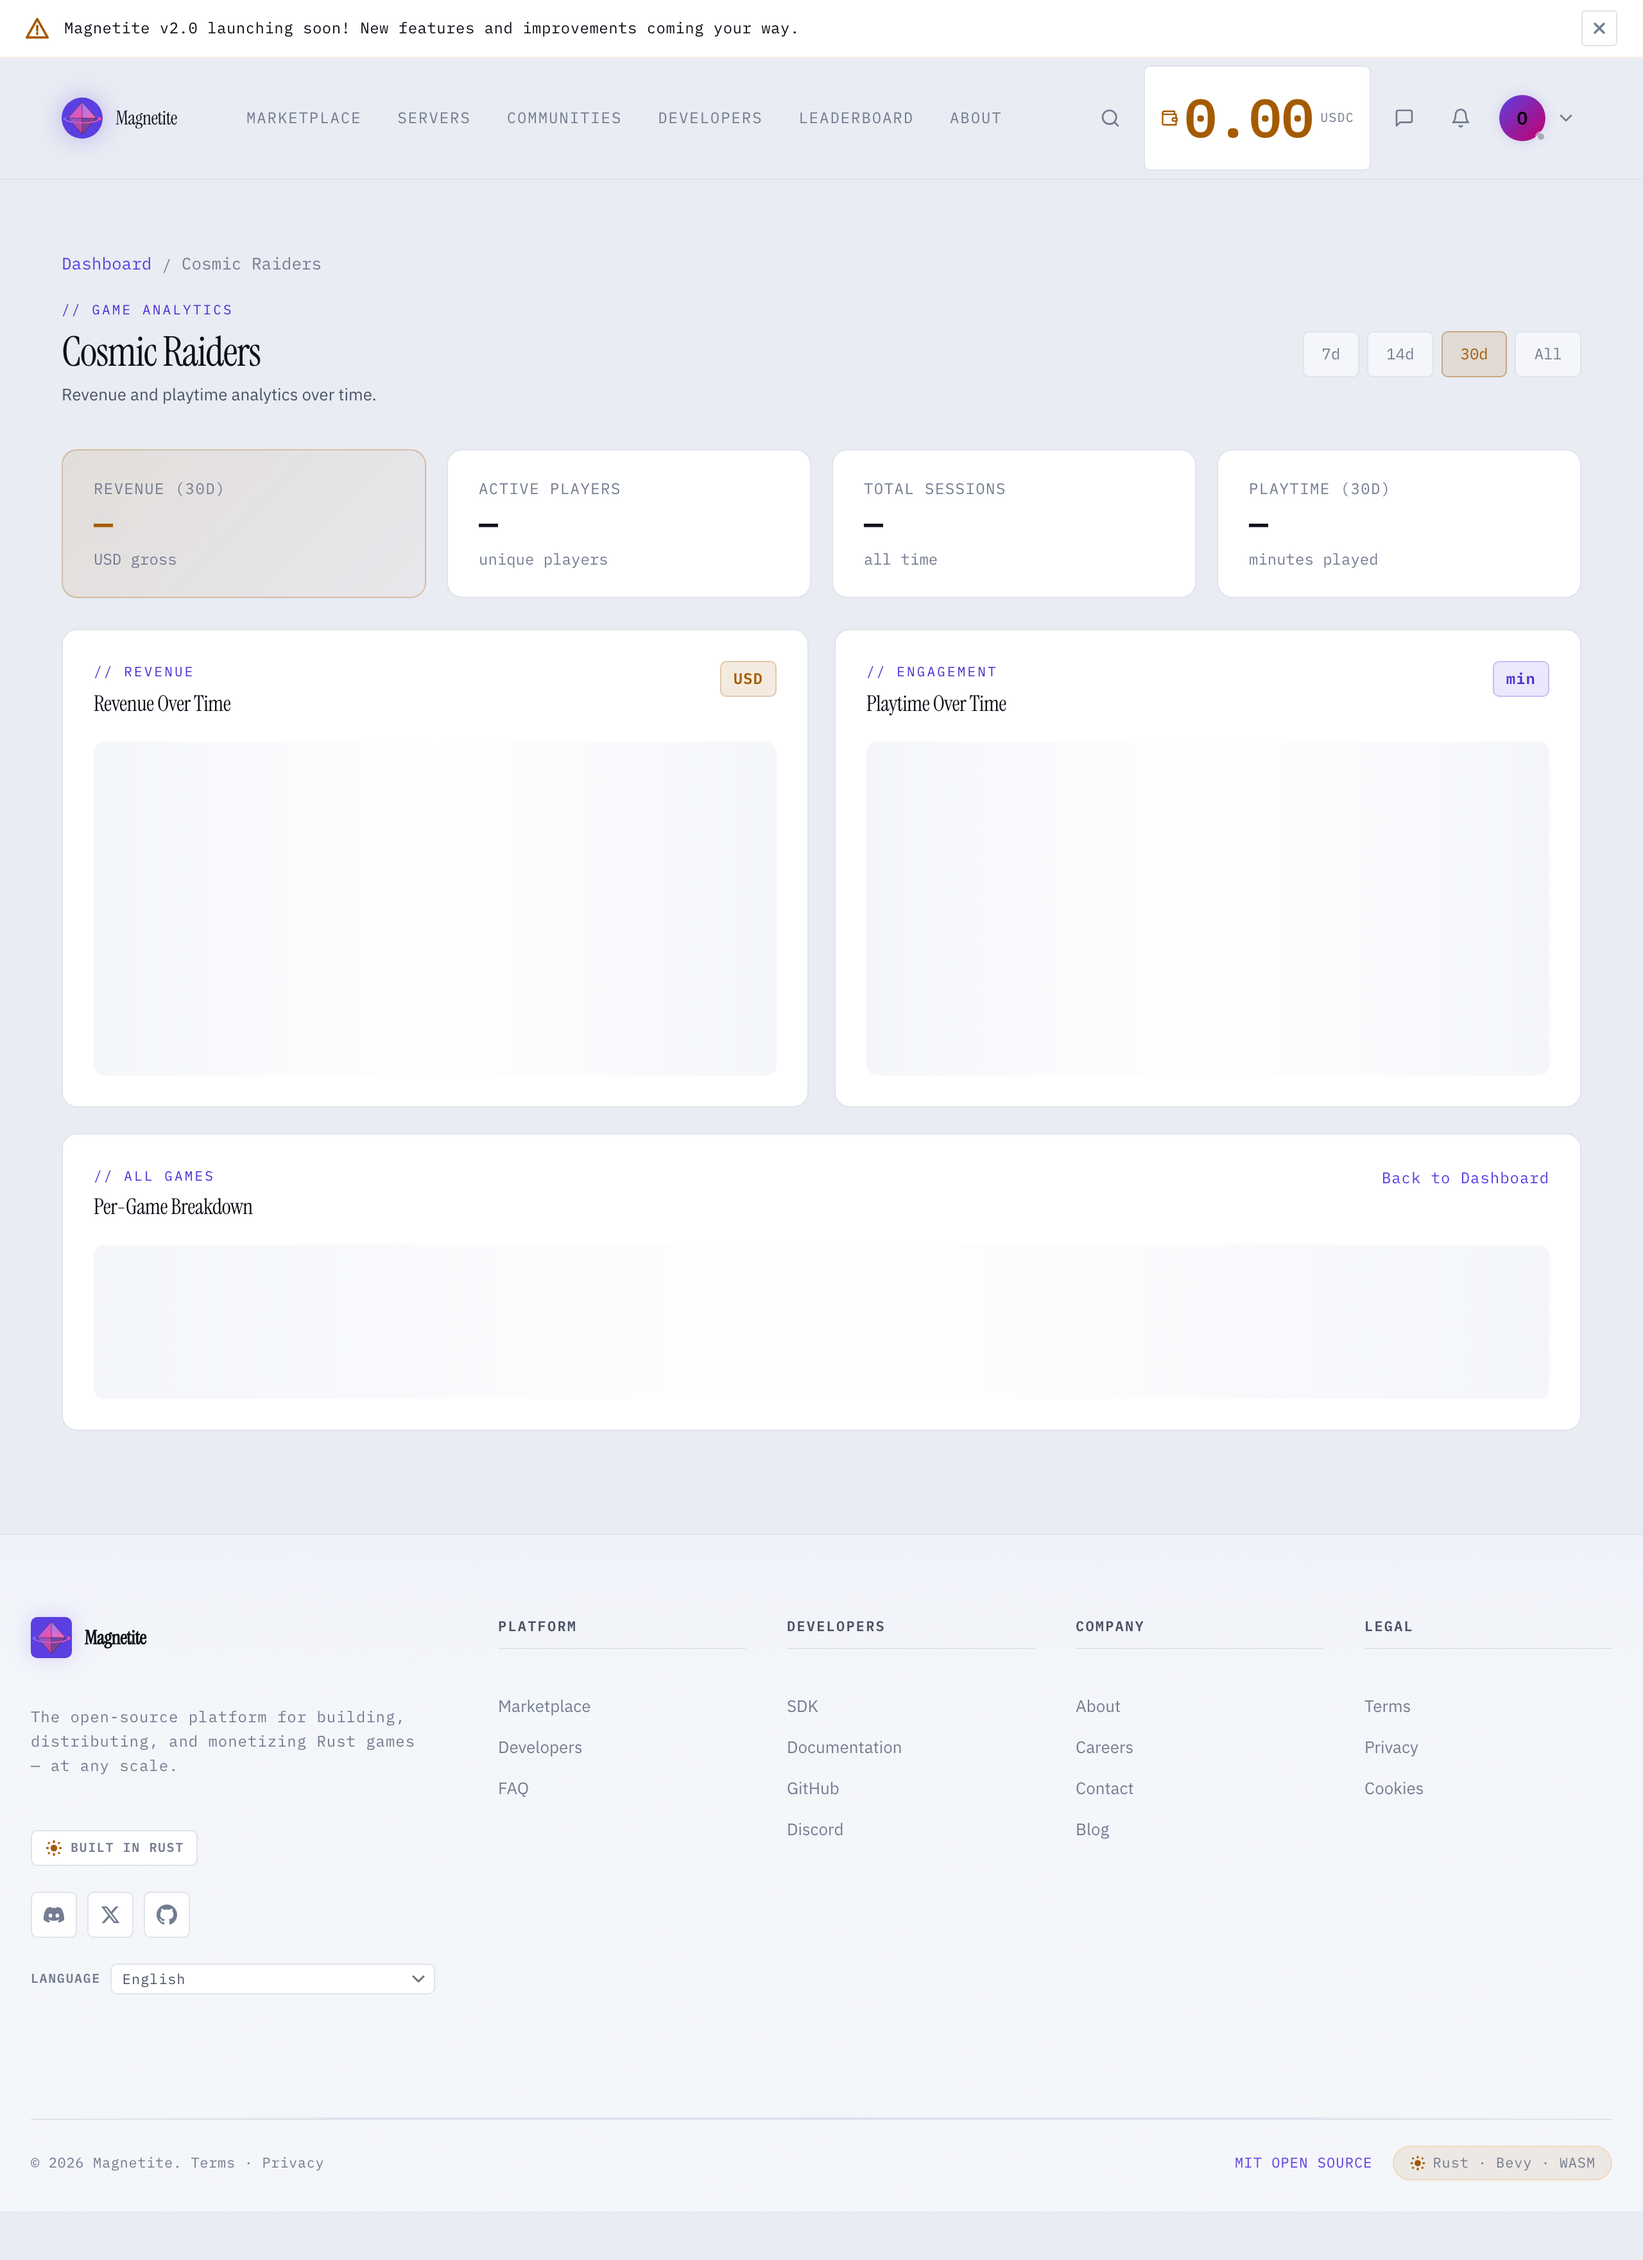
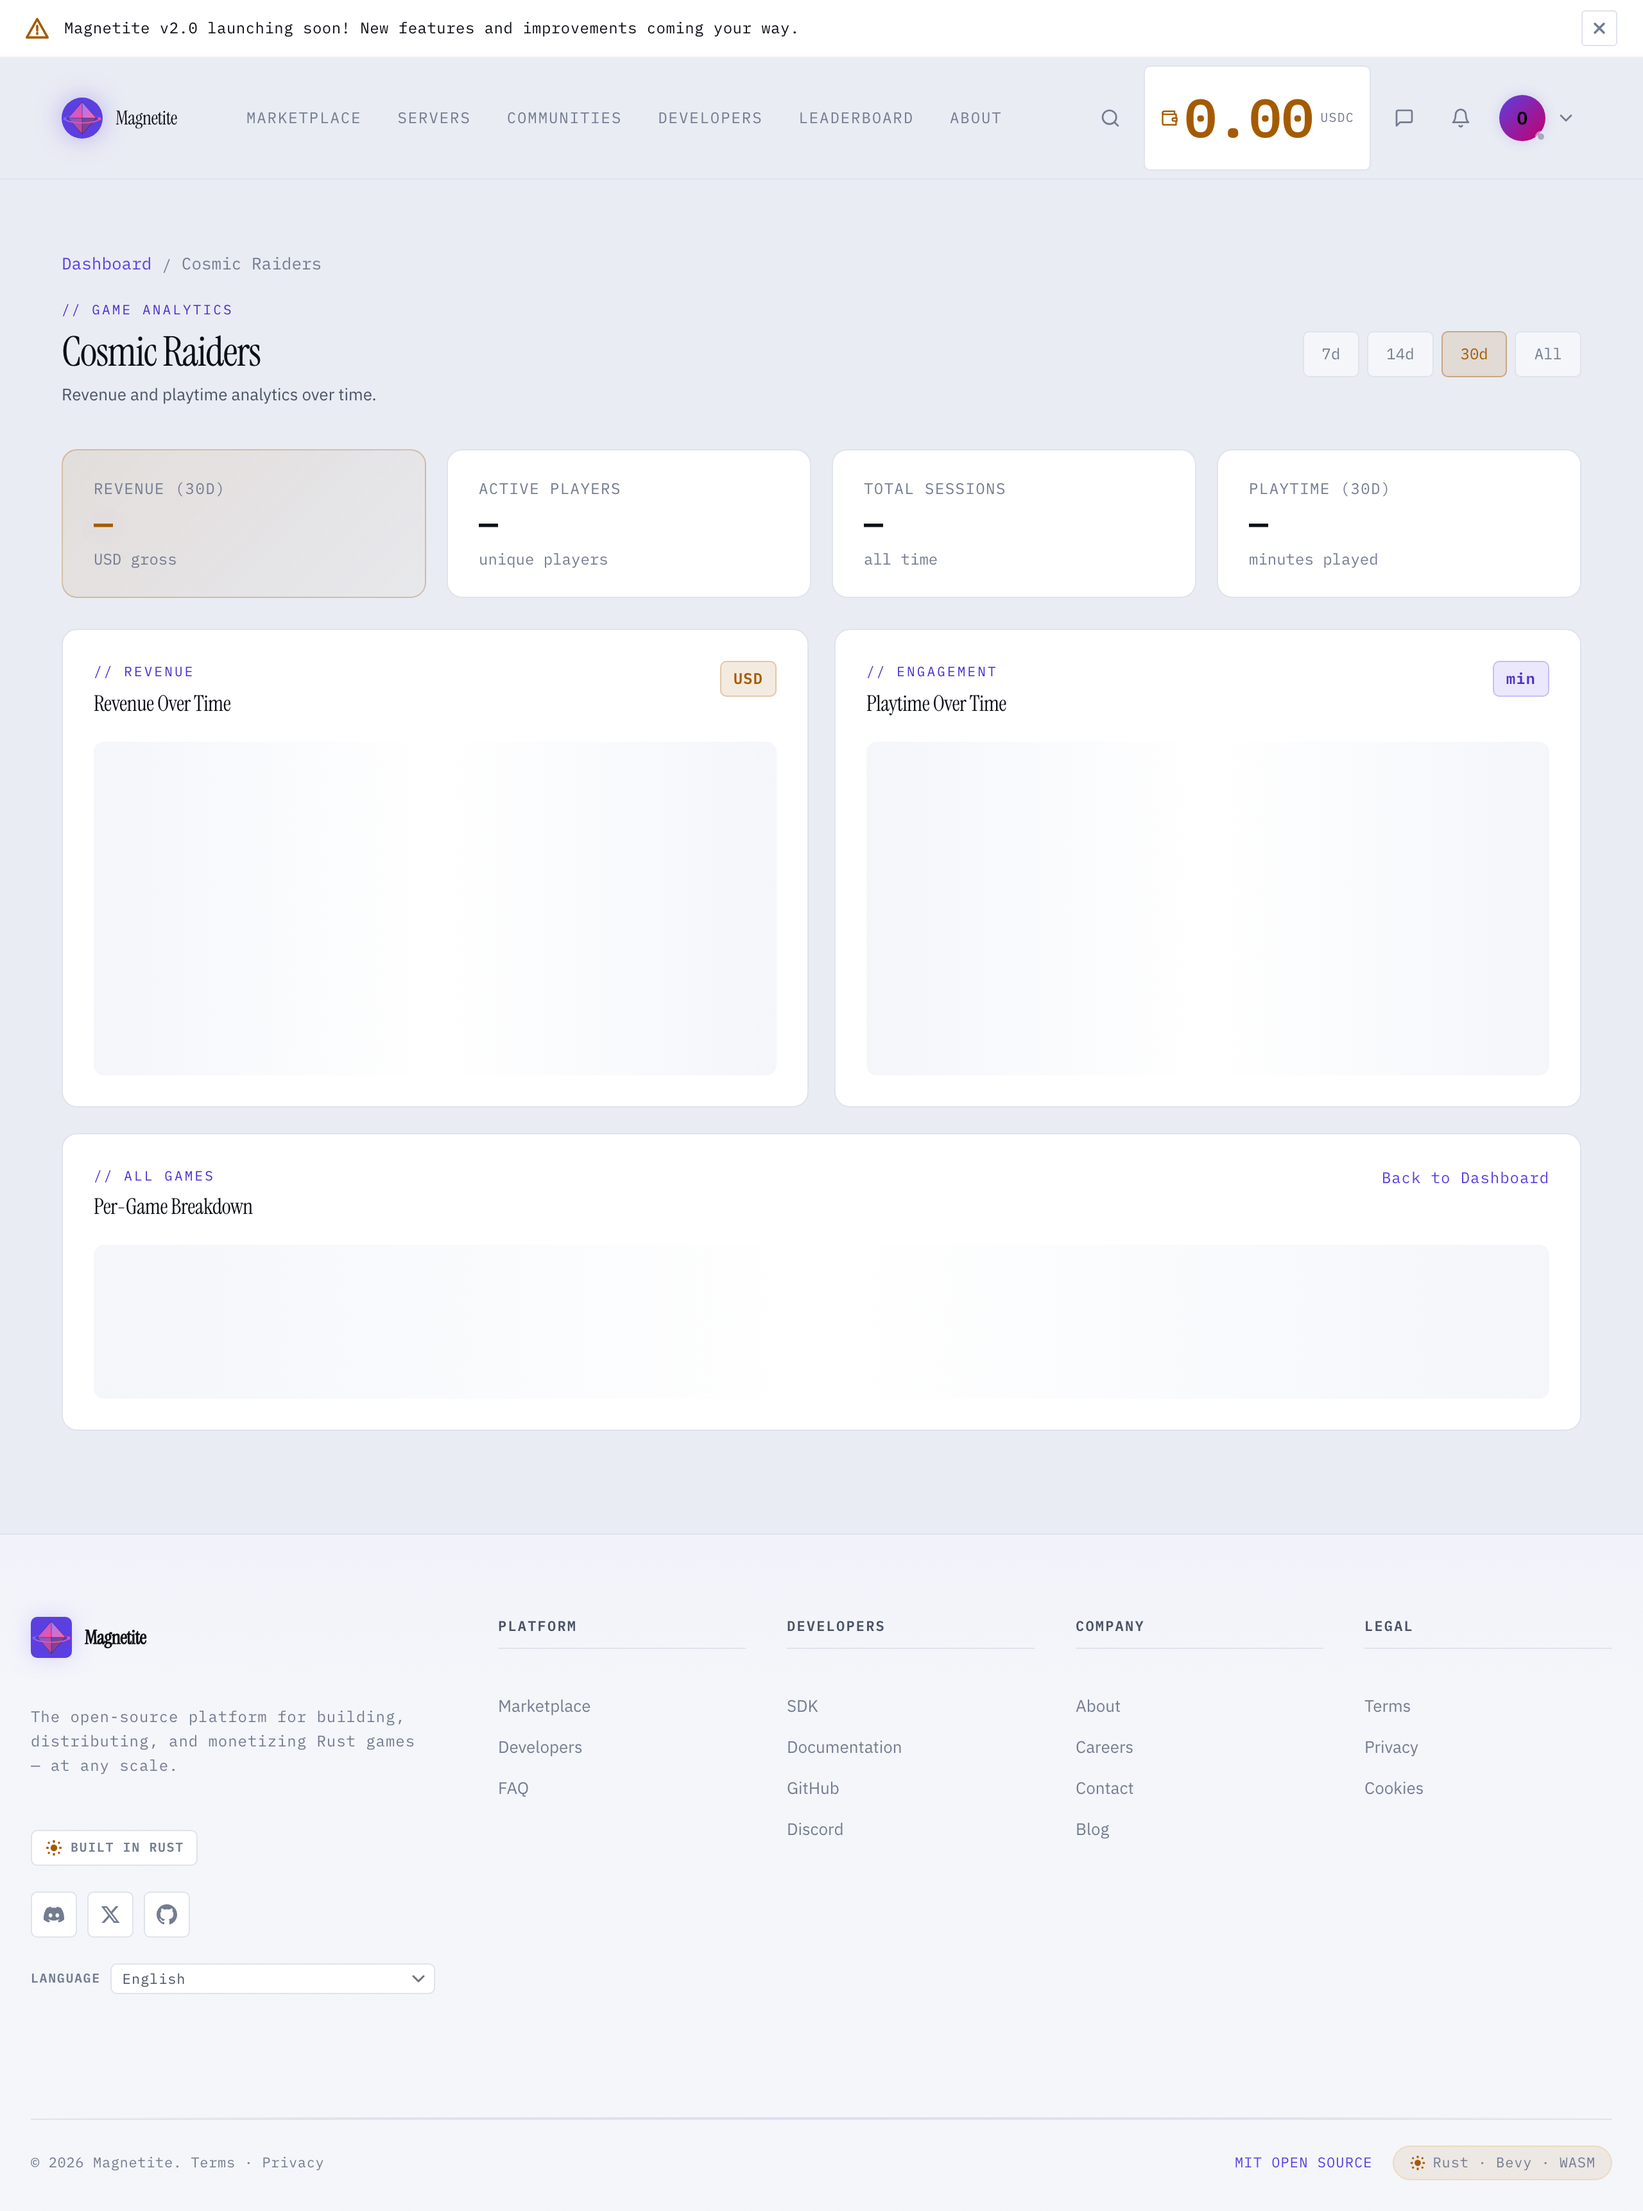
site: fix sub-12px type on landing + docs, refresh app screenshots
12 declarations in site/index.html and 1 in site/docs.html sat below
the 12px floor: mono kicker labels (.m-xs/.m-sm/.m-md), legend swatch
labels (.lg b), the re-sim status/foot text, the status ledger table
header, live/LAN/spec status pills (.st, .st.lan::after), seam chips,
screenshot-frame captions and terminal-bar labels, plus the docs
sidebar section label — all were 10.5-11.5px. Bumped each to
12-12.5px, keeping existing letter-spacing/case treatment. Verified
zero px sizes remain below 12 in either file, and re-checked the .88em
inline <code> spans against their real ancestor sizes (14-17.5px, so
still >=12px effective).

Verified no horizontal overflow at 390px viewport width, light or
dark, across the landing page and all 11 docs sections (throwaway
Playwright check, not a new permanent harness).

Re-ran npm run screenshots:app after the brand-logo swap (previous
commit) — it regenerates app screenshots and gates on overflow at
390/768/1280px; 84/84 measurements clean, 0 overflow. Only 4 of the
existing captures actually changed pixels (home/marketplace/
game-analytics, where the new logo mark is visible), so only those
are included here.

Agent-generated, machine-verified, NOT human-reviewed.

diff --git a/site/index.html b/site/index.html
@@ -168,9 +168,9 @@
   @media (max-width: 560px) { .wrap { padding: 0 18px; } }
 
   /* Mono tracking ladder — the smaller the label, the wider the tracking. */
-  .m-xs { font-family: var(--mono); font-size: 10.5px; letter-spacing: .18em; text-transform: uppercase; }
-  .m-sm { font-family: var(--mono); font-size: 10.5px; letter-spacing: .15em; text-transform: uppercase; }
-  .m-md { font-family: var(--mono); font-size: 11.5px; letter-spacing: .11em; text-transform: uppercase; }
+  .m-xs { font-family: var(--mono); font-size: 12px; letter-spacing: .18em; text-transform: uppercase; }
+  .m-sm { font-family: var(--mono); font-size: 12px; letter-spacing: .15em; text-transform: uppercase; }
+  .m-md { font-family: var(--mono); font-size: 12.5px; letter-spacing: .11em; text-transform: uppercase; }
 
   .link { color: var(--field-text); font-weight: 500; border-bottom: 1px solid var(--field-line); }
   .link:hover { border-bottom-color: var(--field); }
@@ -295,7 +295,7 @@
   @media (max-width: 860px) { .lg:nth-child(2n) { border-right: 0; } }
   @media (max-width: 460px) { .lg { border-right: 0; } }
   .lg .swatch { width: 26px; height: 3px; border-radius: 2px; background: var(--c); margin-bottom: 11px; }
-  .lg b { display: block; font-family: var(--mono); font-size: 11px; font-weight: 600; letter-spacing: .1em; text-transform: uppercase; color: var(--ct); }
+  .lg b { display: block; font-family: var(--mono); font-size: 12px; font-weight: 600; letter-spacing: .1em; text-transform: uppercase; color: var(--ct); }
   .lg span { display: block; color: var(--ink-2); font-size: 13px; line-height: 1.5; margin-top: 6px; }
   .lg.f { --c: var(--field); --ct: var(--field-text); }
   .lg.b { --c: var(--boundary); --ct: var(--boundary-text); }
@@ -320,7 +320,7 @@
   .rrow.mismatch { background: var(--boundary-tint); }
   .rrow.mismatch .h { color: var(--boundary-text); font-weight: 600; }
   .resim-foot { padding: 13px 16px; background: var(--sunk); border-top: 1px solid var(--line); color: var(--ink-2); font-size: 13px; }
-  .resim-foot b { color: var(--boundary-text); font-family: var(--mono); font-size: 11px; letter-spacing: .1em; text-transform: uppercase; }
+  .resim-foot b { color: var(--boundary-text); font-family: var(--mono); font-size: 12px; letter-spacing: .1em; text-transform: uppercase; }
 
   .two { display: grid; grid-template-columns: 1fr 1.12fr; gap: clamp(30px, 4vw, 56px); align-items: start; }
   @media (max-width: 940px) { .two { grid-template-columns: 1fr; } }
@@ -331,16 +331,16 @@
   .ledger-scroll { overflow-x: auto; border: 1px solid var(--line); border-radius: var(--r-md); background: var(--paper); }
   table.ledger { width: 100%; border-collapse: collapse; min-width: 660px; font-size: 14px; }
   table.ledger th, table.ledger td { padding: 12px 16px; text-align: left; border-bottom: 1px solid var(--line); vertical-align: top; }
-  table.ledger th { font-family: var(--mono); font-size: 10.5px; letter-spacing: .15em; text-transform: uppercase; color: var(--ink-3-aa); font-weight: 400; background: var(--sunk); }
+  table.ledger th { font-family: var(--mono); font-size: 12px; letter-spacing: .15em; text-transform: uppercase; color: var(--ink-3-aa); font-weight: 400; background: var(--sunk); }
   table.ledger tr:last-child td { border-bottom: 0; }
   table.ledger td:first-child { font-weight: 500; white-space: nowrap; }
   table.ledger td.d { color: var(--ink-2); font-size: 13.5px; }
   table.ledger code { font-family: var(--mono); font-size: .88em; color: var(--field-text); }
-  .st { display: inline-flex; align-items: center; gap: 7px; font-family: var(--mono); font-size: 11px; font-weight: 600; letter-spacing: .07em; text-transform: uppercase; white-space: nowrap; }
+  .st { display: inline-flex; align-items: center; gap: 7px; font-family: var(--mono); font-size: 12px; font-weight: 600; letter-spacing: .07em; text-transform: uppercase; white-space: nowrap; }
   .st::before { content: ''; width: 6px; height: 6px; border-radius: 50%; background: currentColor; flex: none; }
   .st.live { color: var(--live-text); }
   .st.lan  { color: var(--live-text); }
-  .st.lan::after { content: 'LAN'; margin-left: 2px; padding: 1px 5px; border-radius: 2px; background: var(--spec-tint); color: var(--spec-text); font-size: 10.5px; letter-spacing: .08em; }
+  .st.lan::after { content: 'LAN'; margin-left: 2px; padding: 1px 5px; border-radius: 2px; background: var(--spec-tint); color: var(--spec-text); font-size: 12px; letter-spacing: .08em; }
   .st.spec { color: var(--spec-text); }
   .st.no   { color: var(--ink-3-aa); }
 
@@ -353,7 +353,7 @@
   .seam .no { color: var(--ink-3-aa); }
   .seam h3 { font-family: var(--mono); font-size: 15px; font-weight: 600; letter-spacing: -.01em; margin: 12px 0 0; color: var(--field-text); }
   .seam p { color: var(--ink-2); font-size: 14px; margin: 10px 0 0; }
-  .seam .chip { display: inline-block; margin-top: 12px; font-family: var(--mono); font-size: 10.5px; font-weight: 600; letter-spacing: .1em; text-transform: uppercase; padding: 3px 7px; border-radius: 2px; }
+  .seam .chip { display: inline-block; margin-top: 12px; font-family: var(--mono); font-size: 12px; font-weight: 600; letter-spacing: .1em; text-transform: uppercase; padding: 3px 7px; border-radius: 2px; }
   .chip.live { color: var(--live-text); background: var(--live-tint); }
   .chip.spec { color: var(--spec-text); background: var(--spec-tint); }
   .chip.bnd  { color: var(--boundary-text); background: var(--boundary-tint); }
@@ -372,11 +372,11 @@
   .shot h3 { font-size: clamp(21px, 2.6vw, 27px); margin-bottom: 10px; }
   .shot p { color: var(--ink-2); font-size: 14.5px; margin: 0; }
   .shot .caveat { margin-top: 14px; padding: 11px 13px; border-left: 2px solid var(--spec); background: var(--spec-tint); color: var(--ink-2); font-size: 13px; border-radius: 0 var(--r-sm) var(--r-sm) 0; }
-  .shot .caveat b { font-family: var(--mono); font-size: 10.5px; letter-spacing: .1em; text-transform: uppercase; color: var(--spec-text); display: block; margin-bottom: 3px; }
+  .shot .caveat b { font-family: var(--mono); font-size: 12px; letter-spacing: .1em; text-transform: uppercase; color: var(--spec-text); display: block; margin-bottom: 3px; }
   .frame { border: 1px solid var(--line-2); border-radius: var(--r-md); overflow: hidden; background: var(--paper); box-shadow: var(--sh-2); }
   .frame-bar { display: flex; align-items: center; gap: 6px; padding: 8px 12px; border-bottom: 1px solid var(--line); background: var(--sunk); }
   .frame-bar i { width: 8px; height: 8px; border-radius: 50%; background: var(--line-2); }
-  .frame-bar span { margin-left: 8px; color: var(--ink-3-aa); font-family: var(--mono); font-size: 10.5px; }
+  .frame-bar span { margin-left: 8px; color: var(--ink-3-aa); font-family: var(--mono); font-size: 12px; }
   .frame img { width: 100%; height: auto; }
   /* CSS-only theme-aware imagery — no JS, no <picture>, no extra request beyond the one shown */
   .frame img.dark { display: none; }
@@ -392,7 +392,7 @@
   }
   .term-bar { display: flex; align-items: center; gap: 6px; padding: 9px 13px; background: var(--t-bar); border-bottom: 1px solid var(--t-line); }
   .term-bar i { width: 8px; height: 8px; border-radius: 50%; background: #2A3140; }
-  .term-bar span { margin-left: 8px; color: var(--t-dim); font-family: var(--mono); font-size: 10.5px; letter-spacing: .1em; }
+  .term-bar span { margin-left: 8px; color: var(--t-dim); font-family: var(--mono); font-size: 12px; letter-spacing: .1em; }
   .term pre { margin: 0; padding: 20px; overflow-x: auto; font-family: var(--mono); font-size: 12.5px; line-height: 1.95; color: var(--t-fg); }
   .term .c { color: var(--t-dim); }
   .term .p { color: var(--t-vio); user-select: none; }
@@ -506,7 +506,7 @@
   /* ── Interactive re-simulation: the signature demo, playable ──────────── */
   .resim-run {
     display: inline-flex; align-items: center; gap: 8px; margin-left: auto;
-    font-family: var(--mono); font-size: 11px; font-weight: 600; letter-spacing: .08em; text-transform: uppercase;
+    font-family: var(--mono); font-size: 12px; font-weight: 600; letter-spacing: .08em; text-transform: uppercase;
     padding: 6px 12px; border-radius: var(--r-sm); cursor: pointer;
     color: var(--field-text); background: var(--field-tint); border: 1px solid var(--field-line);
     transition: background .18s, border-color .18s, transform .12s;

diff --git a/site/docs.html b/site/docs.html
@@ -109,7 +109,7 @@ img{max-width:100%;display:block}
 .docs-shell{display:grid;grid-template-columns:248px 1fr;gap:36px;align-items:start;padding:34px 0 70px}
 @media(max-width:860px){.docs-shell{grid-template-columns:1fr}}
 .docs-nav{position:sticky;top:84px;border:1px solid var(--border);border-radius:var(--radius);background:var(--panel);padding:14px}
-.docs-nav .label{font-size:11px;text-transform:uppercase;letter-spacing:.08em;color:var(--faint);padding:6px 10px}
+.docs-nav .label{font-size:12px;text-transform:uppercase;letter-spacing:.08em;color:var(--faint);padding:6px 10px}
 /* --faint reads ~3.5:1 here — short of AA at this size. Local override, doesn't touch --faint elsewhere. */
 :root[data-theme="light"] .docs-nav .label{color:#5A6171}
 :root[data-theme="dark"] .docs-nav .label{color:#768096}
